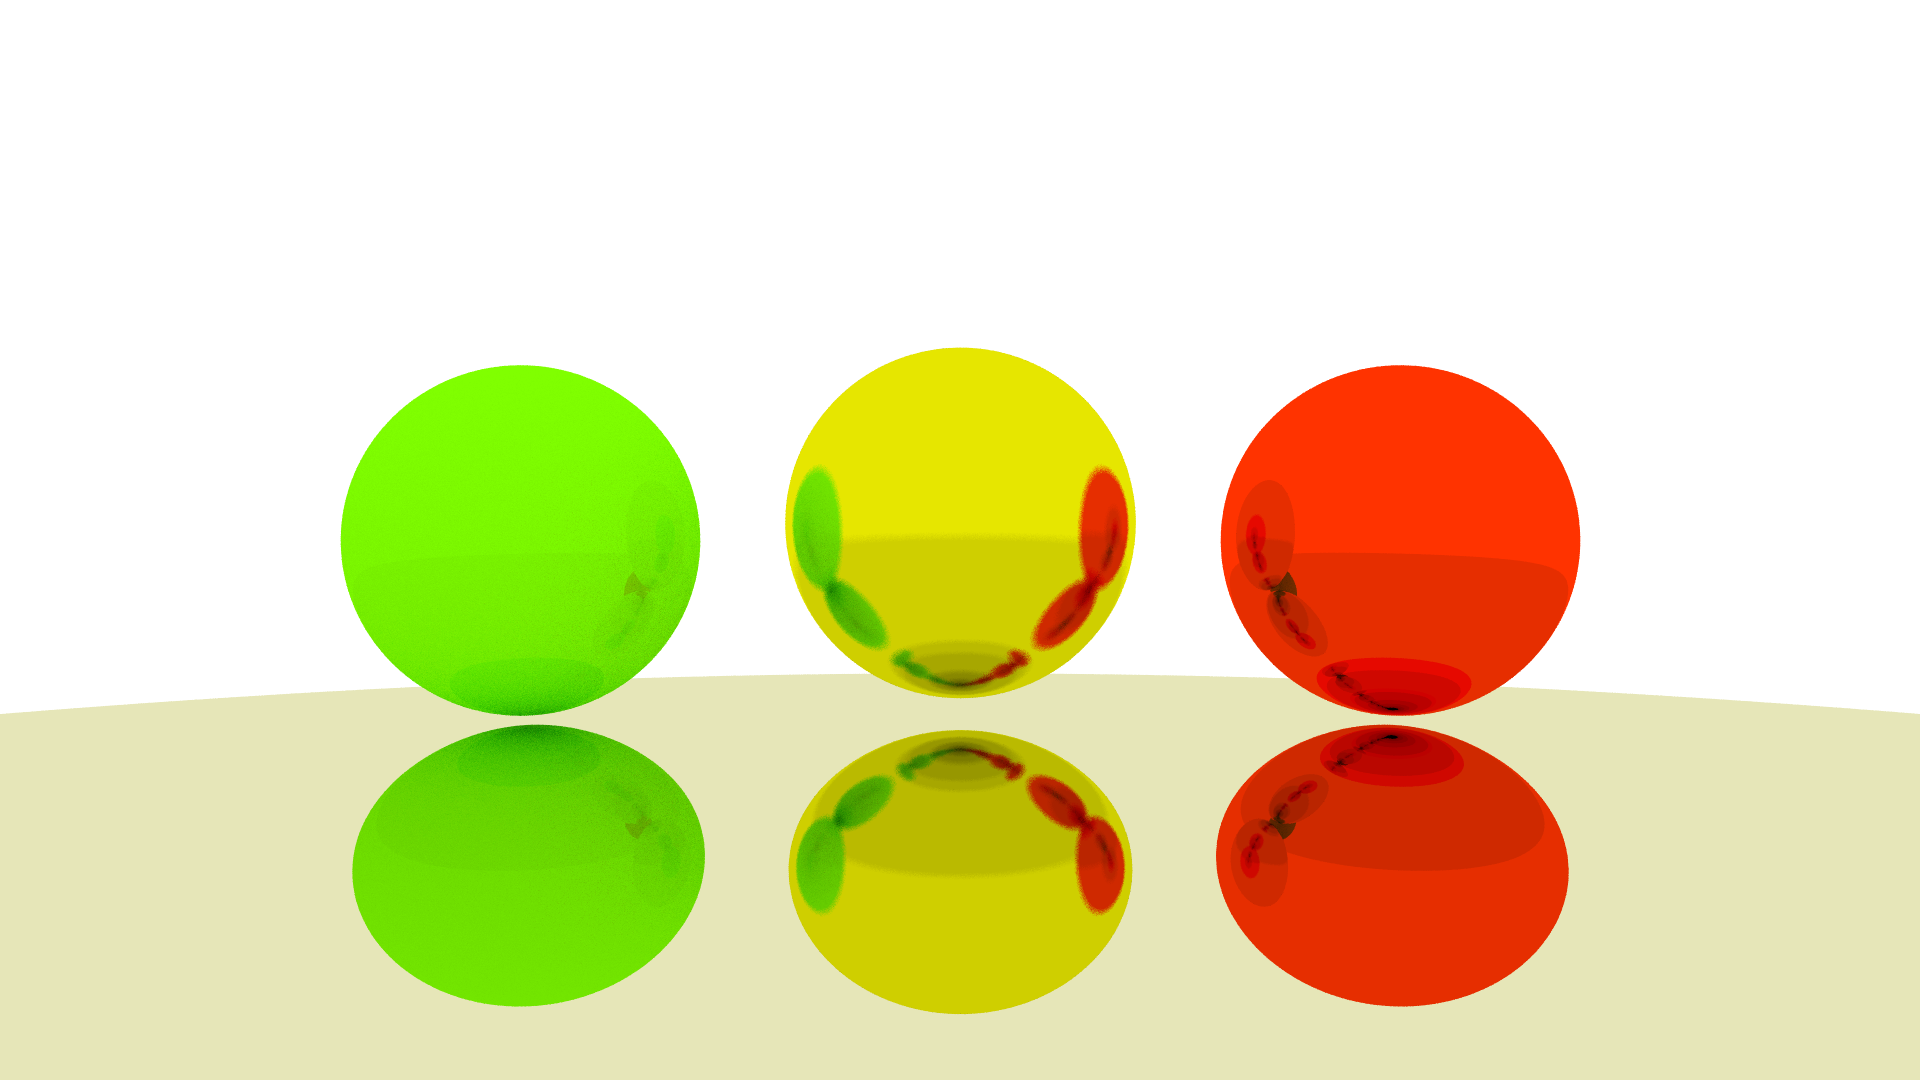
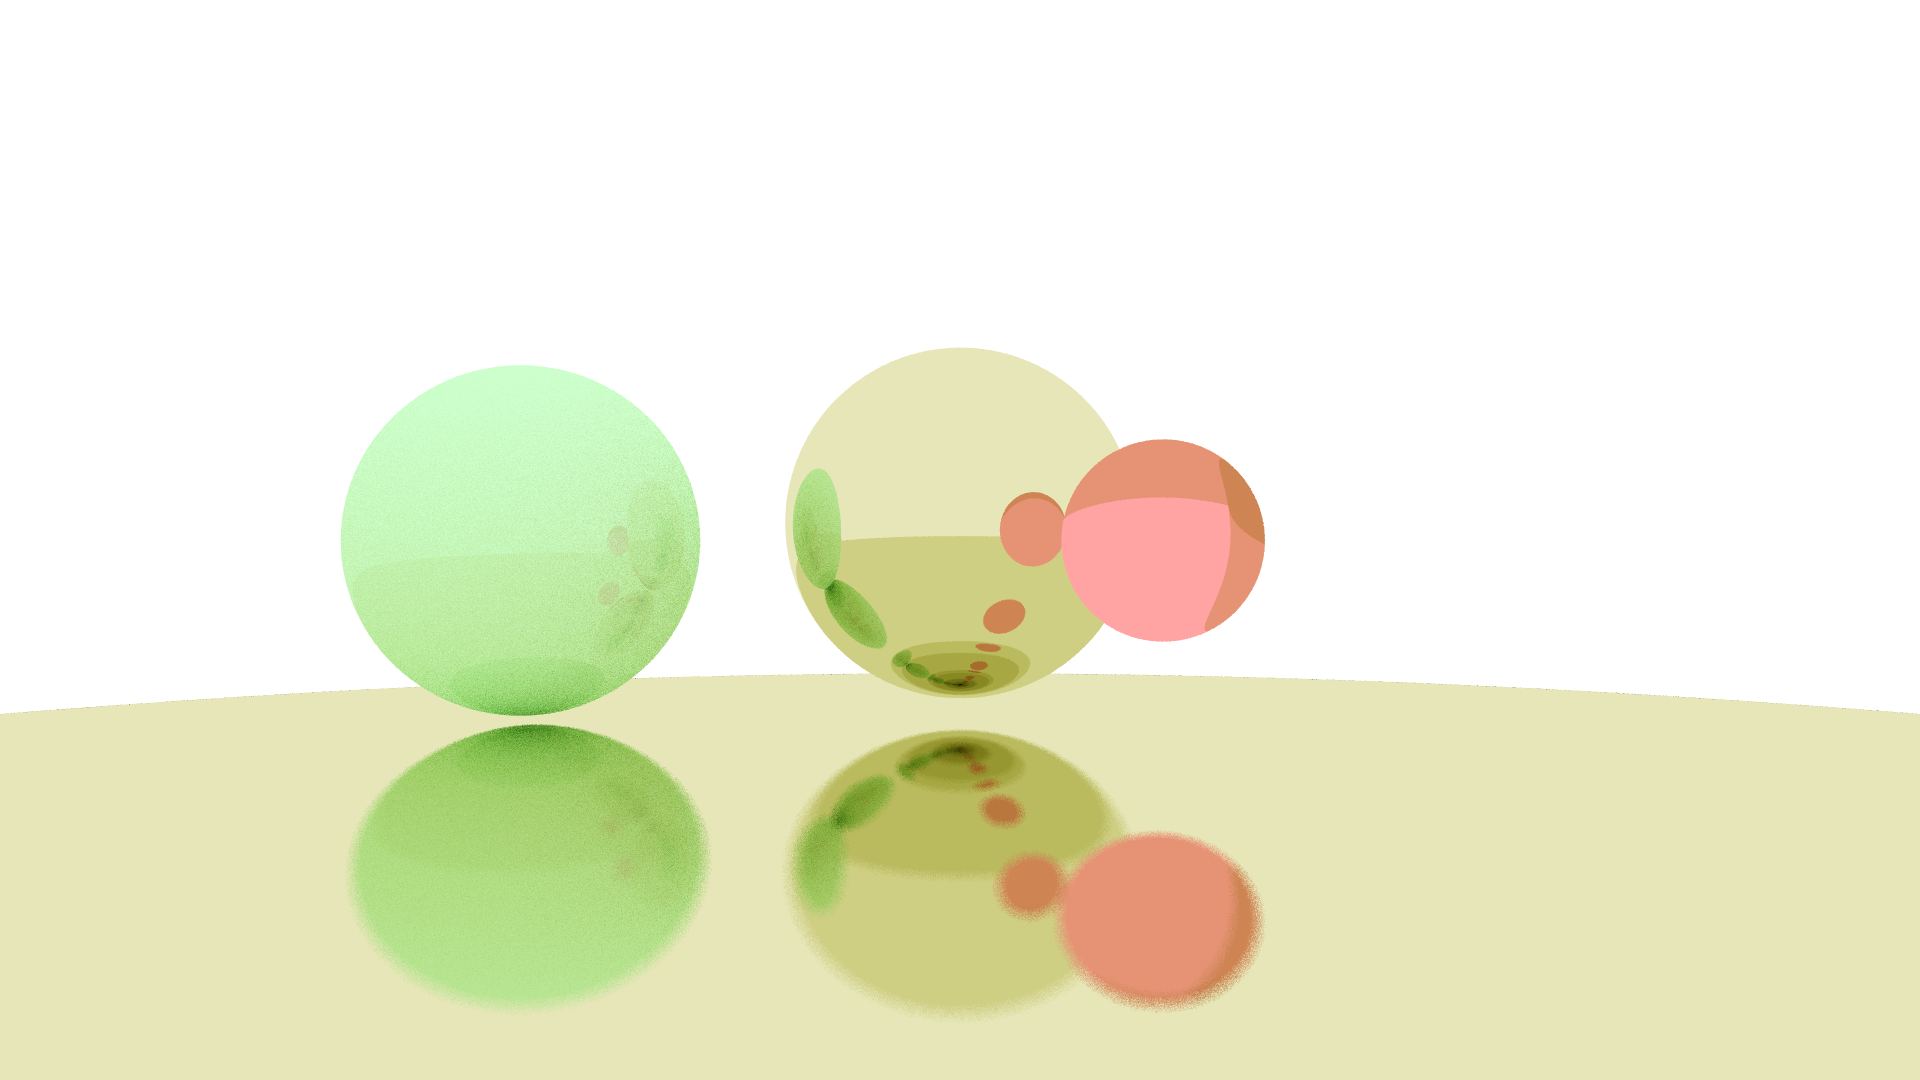
✨ Implement refraction

Changed region(s): [[0.4062, 0.3056, 0.8438, 0.9472], [0.1562, 0.3361, 0.375, 0.9472]]

diff --git a/src/ray.rs b/src/ray.rs
@@ -1,11 +1,12 @@
 use glam::DVec3;
 
 use crate::hit::Hit;
-use crate::math::{random_unit_vector, reflect};
+use crate::math::random_unit_vector;
 
 pub struct Ray {
     pub origin: DVec3,
     pub direction: DVec3,
+    pub refractive_index: f64,
 }
 
 impl Ray {
@@ -13,6 +14,7 @@ impl Ray {
         Self {
             origin: from,
             direction: to - from,
+            refractive_index: 1.0,
         }
     }
 
@@ -21,21 +23,41 @@ impl Ray {
     }
 
     pub fn reflect(&self, hit: &Hit, fuzz: f64) -> Self {
-        let mut direction = reflect(self.direction, hit.normal);
+        let mut direction = self.direction - hit.normal * (2.0 * self.direction.dot(hit.normal));
         if fuzz != 0.0 {
             direction += random_unit_vector() * fuzz * direction.length();
         }
         Self {
             origin: hit.location,
             direction,
+            refractive_index: self.refractive_index,
         }
     }
 
     /// See also: <https://en.wikipedia.org/wiki/Lambertian_reflectance>.
-    pub fn reflect_diffused(hit: &Hit) -> Self {
+    pub fn reflect_diffused(&self, hit: &Hit) -> Self {
         Self {
             origin: hit.location,
             direction: hit.normal + random_unit_vector(),
+            refractive_index: self.refractive_index,
+        }
+    }
+
+    /// See also: <https://physics.stackexchange.com/a/436252/11966>.
+    pub fn refract(&self, hit: &Hit, inner_index: f64) -> Self {
+        let mu = if hit.from_outside {
+            self.refractive_index / inner_index
+        } else {
+            inner_index / self.refractive_index
+        };
+        let incident_direction = self.direction.normalize();
+        let incident_dot_normal = incident_direction.dot(hit.normal);
+        let direction = (incident_direction - hit.normal * incident_dot_normal) * mu
+            - hit.normal * (1.0 - mu.powi(2) * (1.0 - incident_dot_normal.powi(2))).sqrt();
+        Self {
+            origin: hit.location,
+            direction,
+            refractive_index: inner_index,
         }
     }
 }

diff --git a/src/tracer.rs b/src/tracer.rs
@@ -86,24 +86,37 @@ impl Tracer {
     }
 
     #[inline]
-    fn trace_secondary_rays(&self, source_ray: &Ray, hit: &Hit, n_depth_left: u16) -> DVec3 {
-        let time_range = (0.001 / LIGHT_SPEED)..f64::INFINITY; // FIXME: shadow acne problem
+    fn trace_secondary_rays(&self, incident_ray: &Ray, hit: &Hit, n_depth_left: u16) -> DVec3 {
+        let time_range = (0.001 / LIGHT_SPEED)..f64::INFINITY; // FIXME: shadow acne problem.
         let mut color_sum = DVec3::ZERO;
 
         if let Some(reflection) = &hit.material.reflection {
-            color_sum +=
-                self.trace_ray(source_ray.reflect(hit, reflection.fuzz), n_depth_left, &time_range)
-                    * reflection.color.xyz()
-                    * reflection.color.w;
+            color_sum += self.trace_ray(
+                incident_ray.reflect(hit, reflection.fuzz),
+                n_depth_left,
+                &time_range,
+            ) * reflection.color.xyz()
+                * reflection.color.w;
         }
 
         if let Some(diffusion_color) = hit.material.diffusion_color {
             color_sum += (0..self.options.n_diffused_rays)
-                .map(|_| self.trace_ray(Ray::reflect_diffused(hit), n_depth_left, &time_range))
+                .map(|_| {
+                    self.trace_ray(incident_ray.reflect_diffused(hit), n_depth_left, &time_range)
+                })
                 .sum::<DVec3>()
                 * diffusion_color.xyz()
                 * diffusion_color.w
                 / self.options.n_diffused_rays as f64;
+        }
+
+        if let Some(refraction) = &hit.material.refraction {
+            color_sum += self.trace_ray(
+                incident_ray.refract(hit, refraction.index),
+                n_depth_left,
+                &time_range,
+            ) * refraction.color.xyz()
+                * refraction.color.w;
         }
 
         if let Some(luminance) = hit.material.luminance {

diff --git a/src/material.rs b/src/material.rs
@@ -11,11 +11,14 @@ pub struct Material {
 
     #[serde(default)]
     pub luminance: Option<DVec3>,
+
+    #[serde(default)]
+    pub refraction: Option<Refraction>,
 }
 
 #[derive(Deserialize)]
 pub struct Reflection {
-    #[serde(default = "Reflection::default_reflection_color")]
+    #[serde(default = "Reflection::default_color")]
     pub color: DVec4,
 
     #[serde(default)]
@@ -23,7 +26,26 @@ pub struct Reflection {
 }
 
 impl Reflection {
-    pub const fn default_reflection_color() -> DVec4 {
+    pub const fn default_color() -> DVec4 {
         DVec4::ONE
+    }
+}
+
+#[derive(Deserialize)]
+pub struct Refraction {
+    #[serde(default = "Refraction::default_color")]
+    pub color: DVec4,
+
+    #[serde(default = "Refraction::default_index")]
+    pub index: f64,
+}
+
+impl Refraction {
+    pub const fn default_color() -> DVec4 {
+        DVec4::ONE
+    }
+
+    pub const fn default_index() -> f64 {
+        1.0
     }
 }

diff --git a/src/surface.rs b/src/surface.rs
@@ -53,10 +53,13 @@ impl Sphere {
 
         let location = by_ray.at(time);
         let outward_normal = (location - self.center) / self.radius;
+        let from_outside = outward_normal.dot(by_ray.direction) < 0.0;
+
         Some(Hit {
             time,
             location,
-            normal: if outward_normal.dot(by_ray.direction) < 0.0 {
+            from_outside,
+            normal: if from_outside {
                 outward_normal
             } else {
                 -outward_normal

diff --git a/src/math.rs b/src/math.rs
@@ -1,16 +1,5 @@
 use glam::DVec3;
 
-/// Reflect the vector around the normal.
-///
-/// # Notes
-///
-/// The normal **must** be normalized.
-///
-/// Source: <https://math.stackexchange.com/a/13263/22462>.
-pub fn reflect(vector: DVec3, normal: DVec3) -> DVec3 {
-    vector - normal * (2.0 * vector.dot(normal))
-}
-
 pub fn random_unit_vector() -> DVec3 {
     loop {
         let vector =

diff --git a/src/hit.rs b/src/hit.rs
@@ -13,6 +13,8 @@ pub struct Hit<'a> {
     /// Time travelled by the ray till the hit point.
     pub time: f64,
 
+    pub from_outside: bool,
+
     /// Material at the hit point.
     pub material: &'a Material,
 }
